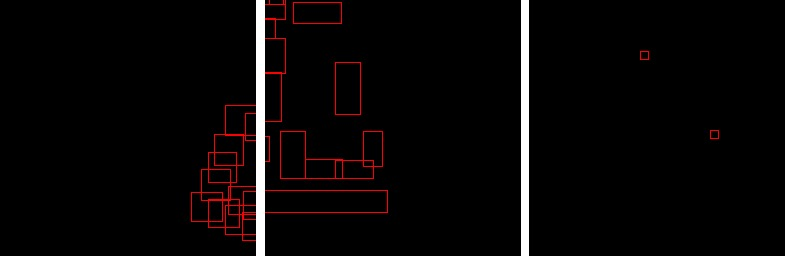
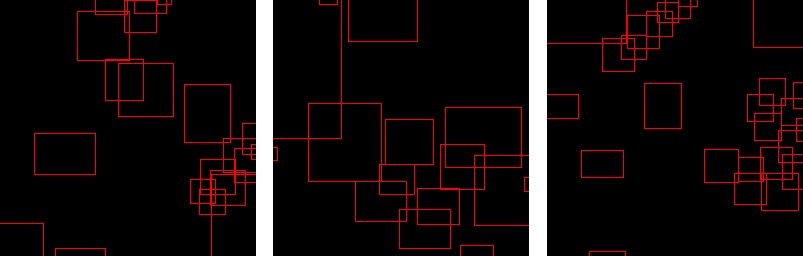
update walkthrough after trained a new model

diff --git a/examples/walkthrough-tensorflow-object-detection.md b/examples/walkthrough-tensorflow-object-detection.md
@@ -1,25 +1,25 @@
 # Example Use: A building detector with TensorFlow API
 
-Google TensorFlow Object Detection API is an open source framework built on top of TensorFlow that makes it easy to construct, train, and deploy object detection models. In this example, we use it to detect buildings in Vietnam. If you follow these steps, you'll be able to train a TensorFlow Object Detection model with the following results:
+Google TensorFlow Object Detection API is an open source framework built on top of TensorFlow that makes it easy to construct, train, and deploy object detection models. In this example, we use it to detect buildings in Mexico City. If you follow these steps, you'll be able to train a TensorFlow Object Detection model with the following results:
 
 <p align="center">
-<img src="images/tf_od_result.jpg" width="1000" />
+<img src="images/ob_tf_result_fig1.jpg" width="1000" />
 </p>
 
 First install Label Maker (`pip install label-maker`),  [tippecanoe](https://github.com/mapbox/tippecanoe) and Pandas (`pip install pandas`).
 
 ## Create the training dataset
 
-Vietnam has good imagery via the Mapbox Satellite layer, so we are going to use the same configuration file we used for [another walkthrough](walkthrough-classification-mxnet-sagemaker.md), which we used to train a building classifier with MXNet and Amazon SageMaker.
+Mexico City  has good imagery via the Mapbox Satellite layer, so we are going to use the same configuration file we used for [another walkthrough](walkthrough-classification-mxnet-sagemaker.md), which we used to train a building classifier with MXNet and Amazon SageMaker.
 
 Create `config.json` as shown in following JSON file.
 ```json
 {
-  "country": "vietnam",
-  "bounding_box": [105.42,20.75,106.41,21.53],
-  "zoom": 15,
+  "country": "mexico",
+  "bounding_box": [-99.17,19.47,-99.12,19.52],
+  "zoom": 17,
   "classes": [
-    { "name": "Buildings", "filter": ["has", "building"] }
+    { "name": "Buildings", "filter": ["has", "building"] , "buffer":3}
   ],
   "imagery": "http://a.tiles.mapbox.com/v4/mapbox.satellite/{z}/{x}/{y}.jpg?access_token=ACCESS_TOKEN",
   "background_ratio": 1,
@@ -49,7 +49,7 @@ This will download ten images to the folder `data/examples/Buildings/`
 <img src="images/preview_tiles.jpg" width="1000" />
 </p>
 
-You can tell from the above image tiles that some buildings in Vietnam haven't been mapped yet which will impact our model prediction accuracy. If you’d like to help improve the labeling accuracy, [start mapping on OpenStreetMap](https://www.openstreetmap.org/#map=10/20.9755/105.4118).
+You can tell from the above image tiles that some buildings in Mexico City haven't been mapped yet which will impact our model prediction accuracy. If you’d like to help improve the labeling accuracy, [start mapping on OpenStreetMap](https://www.openstreetmap.org/#map=12/19.3815/-99.1653).
 
 To download all the image tiles that contain buildings:
 ```shell
@@ -150,8 +150,20 @@ python tf_od_predict.py --model_name=building_od_ssd \
                         --test_image_path=images/test
 ```
 
-This code will read through all your test images in `images/test` folder and output the final prediction into the same folder. You will see a final prediction like this:
+This code will read through all your test images in `images/test` folder and output the final prediction into the same folder. You will see a final prediction like this the first graph shows above.
+
+We also prepared a script to evaluate the model performance using intersection over union (IOU, also known [Jaccard index](https://en.wikipedia.org/wiki/Jaccard_index)).
 
 <p align="center">
-<img src="images/tf_od_result.jpg" width="1000" />
+<img src="images/Intersection_over_Union.png" width="1000" />
 </p>
+
+You will obtain a precision score for the model by running:
+
+```shell
+python tf_iou.py   --model_name=building_od_ssd \
+                              --path_to_label=data/building_od.pbtxt \
+                              --test_image_path=images/test
+```
+
+precision is when the model predicts yes, how often is it correct. When the IOU is higher than 0.5, we consider the model has predicted the buildings correctly.
